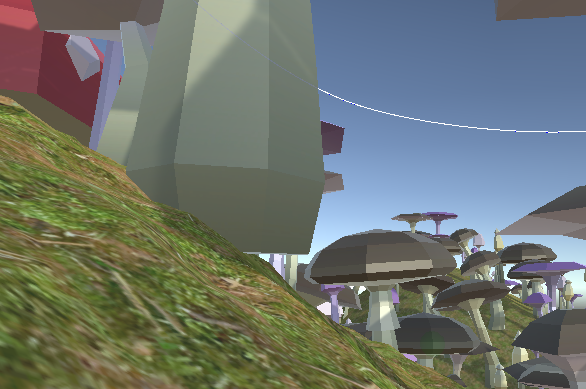
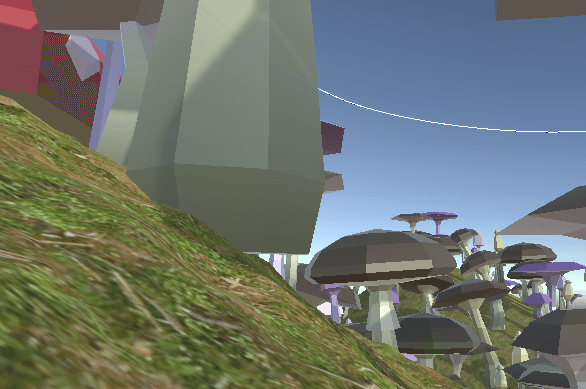
Optimisation Changes
Added lazy loading attribute to images and iframes. tinified all images.

Changed region(s): [[0.0614, 0.0925, 0.1843, 0.3393]]

diff --git a/snap-star/index.html b/snap-star/index.html
@@ -42,7 +42,7 @@
                 <h1 class="major">Snap Star</h1>
                 <div class="card-content__container">
                     <div class="image main card-content__image">
-                        <img src="../images/SnapStar-Image01.png" alt="Field with Houses" />
+                        <img loading="lazy" src="../images/SnapStar-Image05.png" alt="Snap Star Gameplay" />
                     </div>
                     <p class="card-content__text">
                         The game demo is the end product of my Group Games Development module. In this module 26 of us were tasked developing a game demo.
@@ -62,7 +62,7 @@
                     Each of the creatures however, isn't quite ready to have their photo taken yet. The player needs to find out what they need in order to become "photo ready".
                 </p>
                 <div class="image main video__Container">
-                    <iframe width="560" height="315" src="https://www.youtube-nocookie.com/embed/raTY97-OUmo?si=9XJwjv5bfu2RLvCd&autoplay=1&mute=1" title="YouTube video player" allow="accelerometer; autoplay; clipboard-write; encrypted-media; gyroscope; picture-in-picture; web-share" referrerpolicy="strict-origin-when-cross-origin" allowfullscreen></iframe>
+                    <iframe loading="lazy" width="560" height="315" src="https://www.youtube-nocookie.com/embed/raTY97-OUmo?si=9XJwjv5bfu2RLvCd&autoplay=1&mute=1" title="YouTube video player" allow="accelerometer; autoplay; clipboard-write; encrypted-media; gyroscope; picture-in-picture; web-share" referrerpolicy="strict-origin-when-cross-origin" allowfullscreen></iframe>
                 </div>
             </article>
 
@@ -79,15 +79,15 @@
                 </p>
                 <h3 class="major">1st Iteration</h3>
                 <div class="video__Container">
-                    <iframe width="560" height="315" src="https://www.youtube-nocookie.com/embed/hPY7ZQ_oHtQ?si=RvtbjLWl8g3_N8ML&mute=1" title="YouTube video player" allow="accelerometer; autoplay; clipboard-write; encrypted-media; gyroscope; picture-in-picture; web-share" referrerpolicy="strict-origin-when-cross-origin" allowfullscreen></iframe>
+                    <iframe loading="lazy" width="560" height="315" src="https://www.youtube-nocookie.com/embed/hPY7ZQ_oHtQ?si=RvtbjLWl8g3_N8ML&mute=1" title="YouTube video player" allow="accelerometer; autoplay; clipboard-write; encrypted-media; gyroscope; picture-in-picture; web-share" referrerpolicy="strict-origin-when-cross-origin" allowfullscreen></iframe>
                 </div>
                 <h3 class="major">2nd Iteration</h3>
                 <div class="video__Container">
-                    <iframe width="560" height="315" src="https://www.youtube-nocookie.com/embed/ER2L55QwMSM?si=DnYKKz4SpAA3fBMn&mute=1" title="YouTube video player" allow="accelerometer; autoplay; clipboard-write; encrypted-media; gyroscope; picture-in-picture; web-share" referrerpolicy="strict-origin-when-cross-origin" allowfullscreen></iframe>
+                    <iframe loading="lazy" width="560" height="315" src="https://www.youtube-nocookie.com/embed/ER2L55QwMSM?si=DnYKKz4SpAA3fBMn&mute=1" title="YouTube video player" allow="accelerometer; autoplay; clipboard-write; encrypted-media; gyroscope; picture-in-picture; web-share" referrerpolicy="strict-origin-when-cross-origin" allowfullscreen></iframe>
                 </div>
                 <h3 class="major">Final Iteration</h3>
                 <div class="video__Container">
-                    <iframe width="560" height="315" src="https://www.youtube-nocookie.com/embed/Xlszet_po4w?si=iUoWTVBD84tex3Ui&mute=1" title="YouTube video player" allow="accelerometer; autoplay; clipboard-write; encrypted-media; gyroscope; picture-in-picture; web-share" referrerpolicy="strict-origin-when-cross-origin" allowfullscreen></iframe>
+                    <iframe loading="lazy" width="560" height="315" src="https://www.youtube-nocookie.com/embed/Xlszet_po4w?si=iUoWTVBD84tex3Ui&mute=1" title="YouTube video player" allow="accelerometer; autoplay; clipboard-write; encrypted-media; gyroscope; picture-in-picture; web-share" referrerpolicy="strict-origin-when-cross-origin" allowfullscreen></iframe>
                 </div>
 
                 <h2 class="major">Inventory/Loadout System</h2>
@@ -99,10 +99,10 @@
 
                 <h3 class="major">1st Iteration</h3>
                 <div class="video__Container">
-                    <iframe width="560" height="315" src="https://www.youtube-nocookie.com/embed/0EH_GL_Uvs0?si=6-oSz9prF84vDPeH&mute=1" title="YouTube video player" allow="accelerometer; autoplay; clipboard-write; encrypted-media; gyroscope; picture-in-picture; web-share" referrerpolicy="strict-origin-when-cross-origin" allowfullscreen></iframe>
+                    <iframe loading="lazy" width="560" height="315" src="https://www.youtube-nocookie.com/embed/0EH_GL_Uvs0?si=6-oSz9prF84vDPeH&mute=1" title="YouTube video player" allow="accelerometer; autoplay; clipboard-write; encrypted-media; gyroscope; picture-in-picture; web-share" referrerpolicy="strict-origin-when-cross-origin" allowfullscreen></iframe>
                 </div>
                 <div class="video__Container">
-                    <iframe width="560" height="315" src="https://www.youtube-nocookie.com/embed/47wI_Hofl5A?si=BS50TI9dnhnzHInr&mute=1" title="YouTube video player" allow="accelerometer; autoplay; clipboard-write; encrypted-media; gyroscope; picture-in-picture; web-share" referrerpolicy="strict-origin-when-cross-origin" allowfullscreen></iframe>
+                    <iframe loading="lazy" width="560" height="315" src="https://www.youtube-nocookie.com/embed/47wI_Hofl5A?si=BS50TI9dnhnzHInr&mute=1" title="YouTube video player" allow="accelerometer; autoplay; clipboard-write; encrypted-media; gyroscope; picture-in-picture; web-share" referrerpolicy="strict-origin-when-cross-origin" allowfullscreen></iframe>
                 </div>
 
                 <p class="card-content__text-column">
@@ -118,7 +118,7 @@
 
                 <h3 class="major">Final Iteration</h3>
                 <div class="video__Container">
-                    <iframe width="560" height="315" src="https://www.youtube-nocookie.com/embed/dlnRLhessa8?si=qSk9oulOoXampAP7&mute=1" title="YouTube video player" allow="accelerometer; autoplay; clipboard-write; encrypted-media; gyroscope; picture-in-picture; web-share" referrerpolicy="strict-origin-when-cross-origin" allowfullscreen></iframe>
+                    <iframe loading="lazy" width="560" height="315" src="https://www.youtube-nocookie.com/embed/dlnRLhessa8?si=qSk9oulOoXampAP7&mute=1" title="YouTube video player" allow="accelerometer; autoplay; clipboard-write; encrypted-media; gyroscope; picture-in-picture; web-share" referrerpolicy="strict-origin-when-cross-origin" allowfullscreen></iframe>
                 </div>
 
             </article>

diff --git a/tool/index.html b/tool/index.html
@@ -43,7 +43,7 @@
                 <h1 class="major">Forest Generator</h1>
                 <div class="card-content__container">
                     <div class="image main card-content__image">
-                        <img src="../images/ForestToolLippageFix3.png" alt="Generated Mushroom Forest" />
+                        <img loading="lazy" src="../images/ForestToolLippageFix3.png" alt="Generated Mushroom Forest" />
                     </div>
                     <p class="card-content__text">
                         The aim of this project was to create a tool that would be usable in the games industry. I decided to try and create a forest generator that would
@@ -59,16 +59,16 @@
                     Below are a few videos of the tool working and the pop-up documentation that comes with it.
                 </p>
                 <div class="image main video__Container">
-                    <iframe width="560" height="315" src="https://www.youtube-nocookie.com/embed/hL5d84CbZmw?si=lA2botizYFEyMbpU&autoplay=1&mute=1" title="YouTube video player" allow="accelerometer; autoplay; clipboard-write; encrypted-media; gyroscope; picture-in-picture; web-share" referrerpolicy="strict-origin-when-cross-origin" allowfullscreen></iframe>
+                    <iframe loading="lazy" width="560" height="315" src="https://www.youtube-nocookie.com/embed/hL5d84CbZmw?si=lA2botizYFEyMbpU&autoplay=1&mute=1" title="YouTube video player" allow="accelerometer; autoplay; clipboard-write; encrypted-media; gyroscope; picture-in-picture; web-share" referrerpolicy="strict-origin-when-cross-origin" allowfullscreen></iframe>
                 </div>
                 <div class="image main video__Container">
-                    <iframe width="560" height="315" src="https://www.youtube-nocookie.com/embed/ZAHbxxqGyuY?si=QREd4CbGLIWnuptR&mute=1" title="YouTube video player" allow="accelerometer; autoplay; clipboard-write; encrypted-media; gyroscope; picture-in-picture; web-share" referrerpolicy="strict-origin-when-cross-origin" allowfullscreen></iframe>
+                    <iframe loading="lazy" width="560" height="315" src="https://www.youtube-nocookie.com/embed/ZAHbxxqGyuY?si=QREd4CbGLIWnuptR&mute=1" title="YouTube video player" allow="accelerometer; autoplay; clipboard-write; encrypted-media; gyroscope; picture-in-picture; web-share" referrerpolicy="strict-origin-when-cross-origin" allowfullscreen></iframe>
                 </div>
             </article>
             
             <article id="intro" class="active">
                 <h2 class="major">Planning & Development</h2>
-                <span class="image main"><img alt="Wireframe Design of Tool" src="../images/ForestToolDesign.png" /></span>
+                <span class="image main"><img loading="lazy" alt="Wireframe Design of Tool" src="../images/ForestToolDesign.png" /></span>
                 <p class="card-content__text-column">
                     I started off with an initial wireframe of what I wanted the interactivity and UI to look like. I wanted the trees to spawn anywhere inside an adjustable
                     spline so the the designer or environment artist could calve their forests around pathways and structures. It made sense to use Unity's spline package for
@@ -77,7 +77,7 @@
 
                 <div class="card-content__container">
                     <div class="image main card-content__image">
-                        <img alt="Tool Development In Progress" src="../images/Development in-progress.png" />
+                        <img loading="lazy" alt="Tool Development In Progress" src="../images/Development in-progress.png" />
                     </div>
                     <p class="card-content__text">
                         Throughout development I managed to spawn the trees within a rectangular boundary using the top and bottom points of the spline. I struggled however, to get them
@@ -108,8 +108,8 @@
                 </p>
 
                 <div class="card-content__flex">
-                    <img class="card-content__flex-img" alt="Tool Development In Progress" src="../images/ForestToolGif.gif" />
-                    <img class="card-content__flex-img" alt="Tool Development In Progress" src="../images/ForestToolGif2.gif" />
+                    <img loading="lazy" class="card-content__flex-img" alt="Tool Development In Progress" src="../images/ForestToolGif.gif" />
+                    <img loading="lazy" class="card-content__flex-img" alt="Tool Development In Progress" src="../images/ForestToolGif2.gif" />
                 </div>
 
                 <p class="card-content__text-column">

diff --git a/world-generator/index.html b/world-generator/index.html
@@ -43,7 +43,7 @@
                 <h1 class="major">Puzzle World Generator</h1>
                 <div class="card-content__container">
                     <div class="image main card-content__image">
-                        <img src="../images/PuzzleWorldGenerator.png" alt="Field with Houses" />
+                        <img loading="lazy" src="../images/PuzzleWorldGenerator.png" alt="Field with Houses" />
                     </div>
                     <p class="card-content__text">
                         I created this project for my dissertation piece. My main aim was to combine a procedural terrain with a generative
@@ -58,7 +58,7 @@
                     Below is a video of the level generating a few different results:
                 </p>
                 <div class="image main video__Container">
-                    <iframe width="560" height="315" src="https://www.youtube-nocookie.com/embed/Tx0746Ij7Tw?si=mthC9CtjW-7bIZkw&autoplay=1&mute=1" title="YouTube video player" allow="accelerometer; autoplay; clipboard-write; encrypted-media; gyroscope; picture-in-picture; web-share" referrerpolicy="strict-origin-when-cross-origin" allowfullscreen></iframe>
+                    <iframe loading="lazy" width="560" height="315" src="https://www.youtube-nocookie.com/embed/Tx0746Ij7Tw?si=mthC9CtjW-7bIZkw&autoplay=1&mute=1" title="YouTube video player" allow="accelerometer; autoplay; clipboard-write; encrypted-media; gyroscope; picture-in-picture; web-share" referrerpolicy="strict-origin-when-cross-origin" allowfullscreen></iframe>
                 </div>
             </article>
             
@@ -69,14 +69,14 @@
                     modules it has at its disposal. I used C++ to develop the majority of the functionality alongisde blueprint for the UI components such as the
                     inventory.
                 </p>
-                <span class="image main"><img alt="Field with Houses" src="../images/PuzzleWorldGenerator2.png" /></span>
+                <span class="image main"><img loading="lazy" alt="Field with Houses" src="../images/PuzzleWorldGenerator2.png" /></span>
                 <p class="card-content__text-column">
                     For the terrain itself. I decided to use two different techniques for the triangulation. To make the terrain faces look organic while not have too many
                     verticies, I decided to implement a Delaunay Triangulation algorithm to get a flat plane made up of randomized faces. The only thing being randomized
                     were the vericies inputted into the algorithm. To then give the terrain believable height. I then added a 2D Perlin Noise calculation which took in the current
                     2D Vector of each generated position and provided a height result that was cohesive to other 2D vector positions close by.
                 </p>
-                <span class="image main"><img alt="Field Wireframe" src="../images/PuzzleWorldGeneratorWireframe.png" /></span>
+                <span class="image main"><img loading="lazy" alt="Field Wireframe" src="../images/PuzzleWorldGeneratorWireframe.png" /></span>
                 <p class="card-content__text-column">
                     For the puzzle generation, I did some research into different generation algorithms. I wanted a narritive puzzle system where the player could
                     combine different items to generate an output item that would help them progress. I found that the Wave Function Collapse can replicate the functionality
@@ -86,7 +86,7 @@
                 <p class="card-content__text-column">
                     To store the data for the output and input items. I used a data asset:
                 </p>
-                <span class="image main"><img alt="Unreal Engine Data Asset" src="../images/PuzzleWorldGeneratorDataAsset.png" /></span>
+                <span class="image main"><img loading="lazy" alt="Unreal Engine Data Asset" src="../images/PuzzleWorldGeneratorDataAsset.png" /></span>
             </article>
 
 

diff --git a/online-multiplayer/index.html b/online-multiplayer/index.html
@@ -42,7 +42,7 @@
                 <h1 class="major">Online Multiplayer Prototype</h1>
                 <div class="card-content__container">
                     <div class="image main card-content__image">
-                        <img src="../images/MultiplayerGameplay2.png" alt="Field with Houses" />
+                        <img loading="lazy" src="../images/MultiplayerGameplay2.png" alt="Multiplayer prototype gameplaye" />
                     </div>
                     <p class="card-content__text">
                         This project demonstrates use of online multiplayer interactivity using Unity's Online Multiplayer features. These consist of Multiplayer
@@ -59,7 +59,7 @@
                     multiple game instances on one PC.
                 </p>
                 <div class="image main video__Container">
-                    <iframe width="560" height="315" src="https://www.youtube-nocookie.com/embed/BrIUzyqTpHw?si=iYk1ecRstdmMFpoDw&autoplay=1&mute=1" title="YouTube video player" allow="accelerometer; autoplay; clipboard-write; encrypted-media; gyroscope; picture-in-picture; web-share" referrerpolicy="strict-origin-when-cross-origin" allowfullscreen></iframe>
+                    <iframe loading="lazy" width="560" height="315" src="https://www.youtube-nocookie.com/embed/BrIUzyqTpHw?si=iYk1ecRstdmMFpoDw&autoplay=1&mute=1" title="YouTube video player" allow="accelerometer; autoplay; clipboard-write; encrypted-media; gyroscope; picture-in-picture; web-share" referrerpolicy="strict-origin-when-cross-origin" allowfullscreen></iframe>
                 </div>
             </article>
 
@@ -70,13 +70,13 @@
                     to define whether the player had selected man, spider or niether. I programmed the logic to make sure both clients had connected and both spider and man
                     roles had been selected before the level could begin.
                 </p>
-                <span class="image main"><img src="../images/MultiplayerSelection2.png" alt="Game Selection Screen" /></span>
+                <span class="image main"><img loading="lazy" src="../images/MultiplayerSelection2.png" alt="Game Selection Screen" /></span>
                 <p class="card-content__text-column">
                     To handle player movement that's replicated over both clients, I made both players into Network Gameobjects. This means their components such as rigidbody
                     values are replicated over each client. For specific actions that needed to be replicated, I used Remote Proccedure Calls (RPCS) to propogate an action to client,
                     server or everyone. An example of one of these actions would be the man character throwing the projectiles at the spider.
                 </p>
-                <span class="image main"><img src="../images/MultiplayerGameplay.png" alt="Multiplayer Gameplayer" /></span>
+                <span class="image main"><img loading="lazy" src="../images/MultiplayerGameplay.png" alt="Multiplayer Gameplayer" /></span>
                 <p class="card-content__text-column">
                     Once either player has ran out of health. The Connection is severed and both clients are sent back to the selection screen. I have a client updater script
                     that is loaded initially once the project is ran. Each time the players re-load the game, an integer in the client updater script is increased. This is because

diff --git a/index.html b/index.html
@@ -99,7 +99,7 @@
 				<h2 class="major">Programmer and Designer</h2>
 				<div class="card-content__container">
 					<div class="image main card-content__image">
-						<img src="images/pic03.jpg" alt="" />
+						<img loading="lazy" src="images/pic03.jpg" alt="" />
 					</div>
 					<div class="card-content__text">
 						<p>
